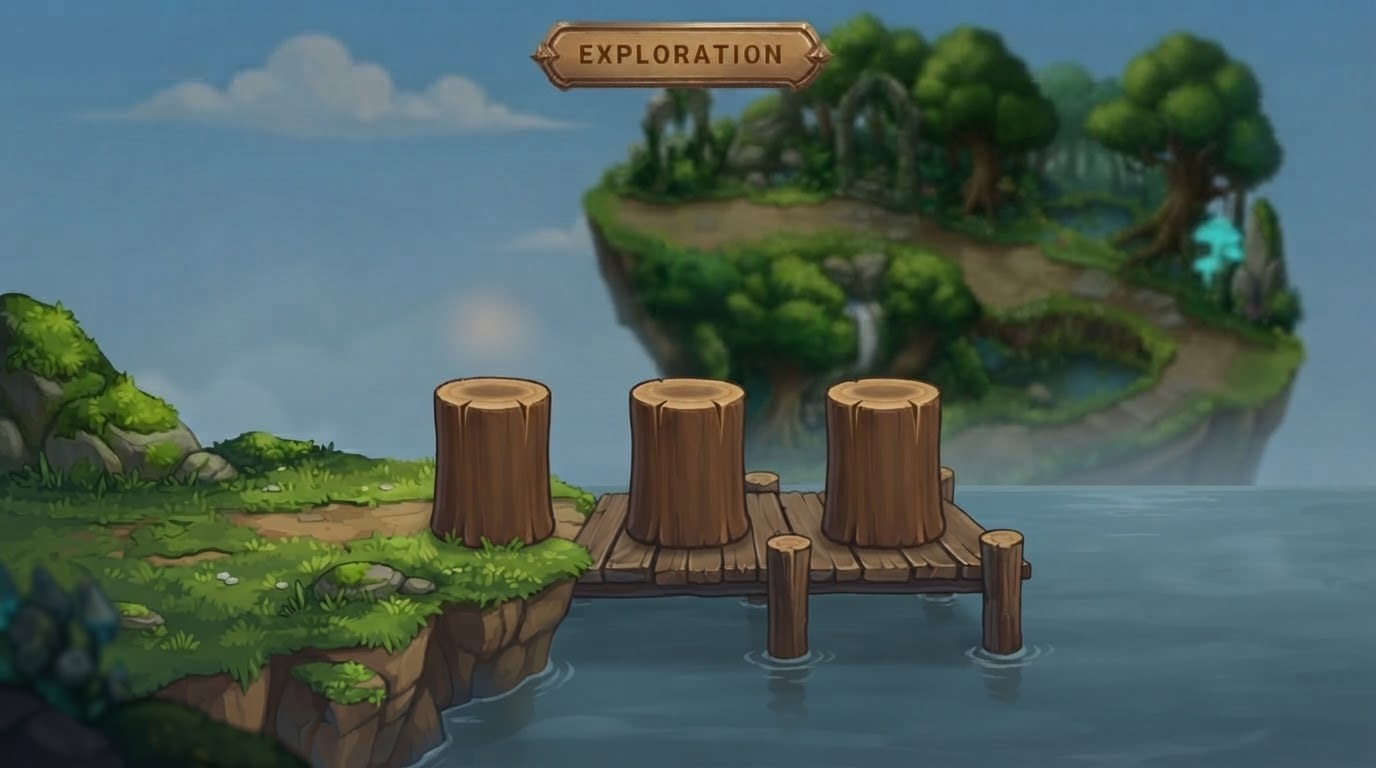
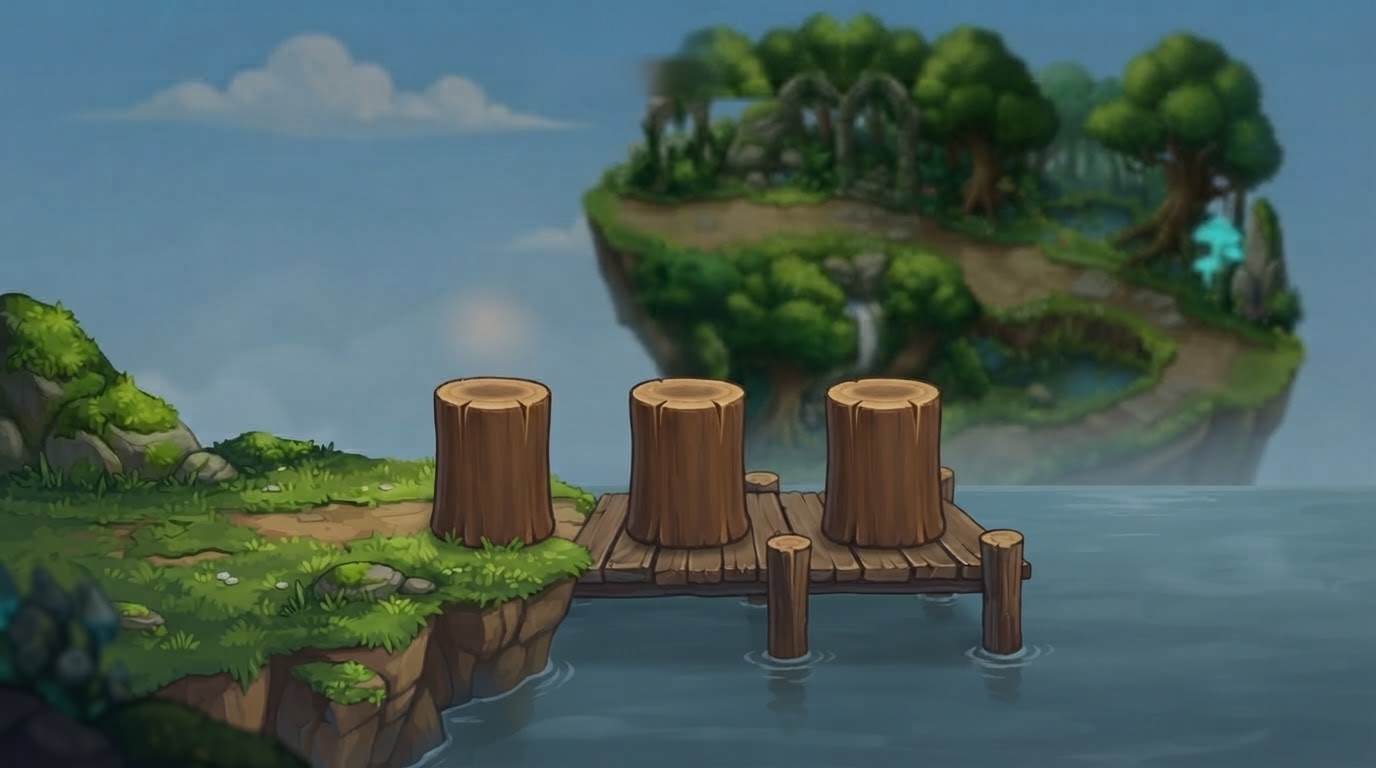
Exploration : plus de bandes sur les côtés (décor plein écran, interface accrochée aux bords) ; créatures et images du hub nettes (décodage en pleine résolution)
Retour de l'auteur. Bandeau incrusté effacé du décor (ciel reconstitué,
feuillage recopié). resizeMethod scale dans CreatureArt et sur les images du
hub : sur Android, l'image était décodée à la taille de son 1er cadre, avant la
rotation en paysage. Vérifié sur 3 formats d'écran. Repères de sabotage à jour.
Sonde de taps 20 / 20 ; 77 contrôles verts, 98 sabotages prouvés.

Changed region(s): [[0.375, 0.0, 0.625, 0.1562]]

diff --git a/mobile/src/screens/games/AdventureScreen.js b/mobile/src/screens/games/AdventureScreen.js
@@ -203,6 +203,9 @@ const GLOW_CYAN = require('../../../assets/icons/glow-cyan.png');
 // que sur la maquette (vérifié).
 const HUB_DECOR = require('../../../assets/exploration/ponton.jpg');
 const HUB_RAPPORT = 1376 / 768;
+// ⚠ Toutes les images du hub : resizeMethod="scale" (03/10, créatures pixelisées) —
+// sur Android, une image est sinon décodée à la taille de son 1er cadre, calculé
+// AVANT la rotation portrait → paysage, puis agrandie.
 const HUB_IMG = {
   titre: require('../../../assets/exploration/titre-exploration.png'),
   plus: require('../../../assets/exploration/plus-dore.png'),
@@ -244,9 +247,9 @@ function BoutonCombat({ rect, rectLueur, onPress }) {
   const taille = Math.max(9, Math.round(rect.height * 0.34));
   return (
     <>
-      <Animated.Image source={HUB_IMG.lueur} resizeMode="stretch" style={[rectLueur, { opacity: lueur, pointerEvents: 'none' }]} />
+      <Animated.Image source={HUB_IMG.lueur} resizeMethod="scale" resizeMode="stretch" style={[rectLueur, { opacity: lueur, pointerEvents: 'none' }]} />
       <TouchableOpacity onPress={onPress} activeOpacity={0.85} style={rect}>
-        <Image source={HUB_IMG.combat} resizeMode="stretch" style={{ width: '100%', height: '100%' }} />
+        <Image source={HUB_IMG.combat} resizeMethod="scale" resizeMode="stretch" style={{ width: '100%', height: '100%' }} />
         {ETINCELLES_COMBAT.map(([fx, fy, ph], k) => (
           <Animated.Text key={k} style={[styles.hubEtincelle, { left: fx * rect.width - taille / 2, top: fy * rect.height - taille / 2, fontSize: taille, opacity: eclat(ph), transform: [{ scale: eclat(ph) }] }]}>✦</Animated.Text>
         ))}
@@ -255,12 +258,19 @@ function BoutonCombat({ rect, rectLueur, onPress }) {
   );
 }
 
-// Rectangle de la scène 16:9 posée entière dans l'écran (w × h).
-function sceneExploration(taille) {
+// Cadres du hub (03/10, retour de l'auteur : « pas de bordures sur les côtés ») :
+// - fond : le décor COUVRE tout l'écran (rogné en haut/bas ou sur les côtés) ;
+//   pilotis, créatures, « + » et « Changer » y sont ATTACHÉS ;
+// - ui : l'interface garde les tailles de la maquette, ramenées à la HAUTEUR de
+//   l'écran (ou à sa largeur si l'écran est moins large que 16:9), et s'ACCROCHE
+//   aux bords : RETOUR à gauche, compteurs à droite, titre et COMBAT au centre.
+function cadresExploration(taille) {
   const w = (taille && taille.w) || 0; const h = (taille && taille.h) || 0;
-  if (!w || !h) return { x: 0, y: 0, l: 0, h: 0 };
-  if (w / h > HUB_RAPPORT) { const l = h * HUB_RAPPORT; return { x: (w - l) / 2, y: 0, l, h }; }
-  const hh = w / HUB_RAPPORT; return { x: 0, y: (h - hh) / 2, l: w, h: hh };
+  if (!w || !h) return null;
+  const k = Math.max(w / 1376, h / 768);
+  const fond = { l: 1376 * k, h: 768 * k }; fond.x = (w - fond.l) / 2; fond.y = (h - fond.h) / 2;
+  const uiL = Math.min(h * HUB_RAPPORT, w);
+  return { w, h, fond, ui: { l: uiL, h: uiL / HUB_RAPPORT } };
 }
 import * as ScreenOrientation from 'expo-screen-orientation';
 import AsyncStorage from '@react-native-async-storage/async-storage';
@@ -1133,45 +1143,53 @@ export default function AdventureScreen({ owned, deck, onBack, onEvolveCreature,
   }
 
   // ── Rendu du hub : voir HUB (fractions de la scène mesurées sur la maquette) ──
-  const scene = sceneExploration(bgSize);
-  const R = (f) => ({ position: 'absolute', left: scene.x + f[0] * scene.l, top: scene.y + f[1] * scene.h, width: (f[2] - f[0]) * scene.l, height: (f[3] - f[1]) * scene.h });
-  const police = (k) => Math.max(8, Math.round(scene.h * k));
+  const cadres = cadresExploration(bgSize);
+  const fond = cadres ? cadres.fond : { x: 0, y: 0, l: 0, h: 0 };
+  const ui = cadres ? cadres.ui : { l: 0, h: 0 };
+  const ecran = cadres || { w: 0, h: 0 };
+  // Interface : fractions de la maquette, accrochées à un bord (x : gauche/centre/droite ; y : haut/bas).
+  const R = (f, ax = 'centre', ay = 'haut') => {
+    const l = (f[2] - f[0]) * ui.l; const hh = (f[3] - f[1]) * ui.h;
+    const left = ax === 'gauche' ? f[0] * ui.l : ax === 'droite' ? ecran.w - (1 - f[0]) * ui.l : ecran.w / 2 + (f[0] - 0.5) * ui.l;
+    const top = ay === 'bas' ? ecran.h - (1 - f[1]) * ui.h : f[1] * ui.h;
+    return { position: 'absolute', left, top, width: l, height: hh };
+  };
+  // Décor : fractions de l'image (pilotis, créatures…), qui le suivent quand il est rogné.
+  const F = (f) => ({ position: 'absolute', left: fond.x + f[0] * fond.l, top: fond.y + f[1] * fond.h, width: (f[2] - f[0]) * fond.l, height: (f[3] - f[1]) * fond.h });
+  const police = (k) => Math.max(8, Math.round(ui.h * k));
   const couleurPuissance = puissanceMenu ? (puissanceMenu.couleur === 'vert' ? '#3DDC84' : puissanceMenu.couleur === 'orange' ? '#FFB74D' : '#FF6B6B') : '#eafbe8';
   return (
     <View style={styles.hubRacine} onLayout={(e) => setBgSize({ w: e.nativeEvent.layout.width, h: e.nativeEvent.layout.height })}>
-      {/* Le même décor, flouté, remplit l'écran autour de la scène 16:9. */}
-      {/* Largeur/hauteur EXPLICITES : une <Image> en absoluteFill seul se dessine à sa
-          taille D'ORIGINE sur téléphone (bug du 13/09 revenu le 03/10). */}
-      <Image source={HUB_DECOR} blurRadius={14} resizeMode="cover" style={styles.hubPleineImage} />
-      <View style={[StyleSheet.absoluteFill, { backgroundColor: 'rgba(5,12,18,0.35)' }]} />
-      {scene.l > 0 && (
+      {fond.l > 0 && (
         <>
-          <Image source={HUB_DECOR} resizeMode="stretch" style={R([0, 0, 1, 1])} />
+          {/* Le décor COUVRE l'écran (plus de bandes sur les côtés, demande de l'auteur) ;
+              largeur/hauteur explicites (auditImagesTailleExplicite). */}
+          <Image source={HUB_DECOR} resizeMethod="scale" resizeMode="stretch" style={F([0, 0, 1, 1])} />
 
           {/* ── En haut : RETOUR, titre, puissance (+ élixir), Griffes, Runes. */}
-          <TouchableOpacity onPress={onBack} activeOpacity={0.8} hitSlop={{ top: 8, bottom: 8, left: 8, right: 8 }} style={[R(HUB.retour), { justifyContent: 'center' }]}>
-            <Image source={HUB_IMG.retour} resizeMode="stretch" style={styles.hubPleineImage} />
-            <Text style={[styles.hubRetourTexte, { fontSize: police(0.02), marginLeft: (HUB.retour[2] - HUB.retour[0]) * scene.l * 0.2 }]} numberOfLines={1}>RETOUR</Text>
+          <TouchableOpacity onPress={onBack} activeOpacity={0.8} hitSlop={{ top: 8, bottom: 8, left: 8, right: 8 }} style={[R(HUB.retour, 'gauche'), { justifyContent: 'center' }]}>
+            <Image source={HUB_IMG.retour} resizeMethod="scale" resizeMode="stretch" style={styles.hubPleineImage} />
+            <Text style={[styles.hubRetourTexte, { fontSize: police(0.02), marginLeft: (HUB.retour[2] - HUB.retour[0]) * ui.l * 0.2 }]} numberOfLines={1}>RETOUR</Text>
           </TouchableOpacity>
-          <Image source={HUB_IMG.titre} resizeMode="stretch" style={R(HUB.titre)} />
-          <View style={[R(HUB.puissance), styles.hubPilule]}>
+          <Image source={HUB_IMG.titre} resizeMethod="scale" resizeMode="stretch" style={R(HUB.titre, 'centre')} />
+          <View style={[R(HUB.puissance, 'droite'), styles.hubPilule]}>
             <Text style={[styles.hubPiluleTexte, { fontSize: police(0.026), color: couleurPuissance }]} numberOfLines={1}>🛡 Puissance {puissanceMenu ? puissanceMenu.puissance : '…'}</Text>
           </View>
           {elixirCombats > 0 && (
-            <View style={[R(HUB.elixir), styles.hubPilule]}>
+            <View style={[R(HUB.elixir, 'droite'), styles.hubPilule]}>
               <Text style={[styles.hubPiluleTexte, { fontSize: police(0.028) }]} numberOfLines={1}>🧪 {elixirCombats}</Text>
             </View>
           )}
-          <View style={[R(HUB.griffes), styles.hubPilule, { justifyContent: 'space-between', paddingLeft: 4, paddingRight: 3 }]}>
-            <CurrencyIcon kind="griffes" size={Math.round(scene.h * 0.045)} haloed={false} />
+          <View style={[R(HUB.griffes, 'droite'), styles.hubPilule, { justifyContent: 'space-between', paddingLeft: 4, paddingRight: 3 }]}>
+            <CurrencyIcon kind="griffes" size={Math.round(ui.h * 0.045)} haloed={false} />
             <Text style={[styles.hubPiluleTexte, { fontSize: police(0.034), color: '#ffffff' }]} numberOfLines={1}>{griffes}</Text>
-            <TouchableOpacity onPress={buyGriffesWithDiamonds} hitSlop={{ top: 8, bottom: 8, left: 8, right: 8 }} style={[styles.hubPlus, { width: scene.h * 0.045, height: scene.h * 0.045 }]}>
+            <TouchableOpacity onPress={buyGriffesWithDiamonds} hitSlop={{ top: 8, bottom: 8, left: 8, right: 8 }} style={[styles.hubPlus, { width: ui.h * 0.045, height: ui.h * 0.045 }]}>
               <Text style={[styles.hubPlusTexte, { fontSize: police(0.034) }]}>+</Text>
             </TouchableOpacity>
           </View>
-          <TouchableOpacity onPress={() => setRunesOpen(true)} activeOpacity={0.8} style={[R(HUB.runes), { alignItems: 'center', justifyContent: 'center' }]}>
-            <Image source={GLOW_CYAN} resizeMode="contain" style={{ position: 'absolute', width: '190%', height: '190%' }} />
-            <Image source={RUNES_GEM} resizeMode="contain" style={{ width: '100%', height: '100%' }} />
+          <TouchableOpacity onPress={() => setRunesOpen(true)} activeOpacity={0.8} style={[R(HUB.runes, 'droite'), { alignItems: 'center', justifyContent: 'center' }]}>
+            <Image source={GLOW_CYAN} resizeMethod="scale" resizeMode="contain" style={{ position: 'absolute', width: '190%', height: '190%' }} />
+            <Image source={RUNES_GEM} resizeMethod="scale" resizeMode="contain" style={{ width: '100%', height: '100%' }} />
           </TouchableOpacity>
 
           {/* ── Les 3 pilotis : la créature du deck DEBOUT sur le dessus (pieds au
@@ -1181,10 +1199,10 @@ export default function AdventureScreen({ owned, deck, onBack, onEvolveCreature,
             const own = id ? ownedMap[id] : null;
             const stade = own ? stageForLevel(own.level) : 0;
             const display = creature && own ? creature.stages[stade] : null;
-            const cx = scene.x + HUB.pilotis[i] * scene.l;
-            const dessus = scene.y + HUB.dessus * scene.h;
-            const lp = HUB.pilotisL * scene.l;
-            const ch = HUB.creatureH * scene.h;
+            const cx = fond.x + HUB.pilotis[i] * fond.l;
+            const dessus = fond.y + HUB.dessus * fond.h;
+            const lp = HUB.pilotisL * fond.l;
+            const ch = HUB.creatureH * fond.h;
             const cad = display ? (CADRAGE_CREATURES[id] || {})[stade] : null;
             let art = null;
             if (display && cad) {
@@ -1198,30 +1216,30 @@ export default function AdventureScreen({ owned, deck, onBack, onEvolveCreature,
             } else if (display) {
               art = <Text style={{ position: 'absolute', left: cx - ch * 0.5, top: dessus - ch * 0.95, width: ch, textAlign: 'center', fontSize: Math.round(ch * 0.72), pointerEvents: 'none' }}>{display.emoji}</Text>;
             }
-            const pl = HUB.plus.l * scene.l; const ph = HUB.plus.h * scene.h; const py = scene.y + HUB.plus.cy * scene.h;
-            const cl = HUB.changer.l * scene.l;
+            const pl = HUB.plus.l * fond.l; const ph = HUB.plus.h * fond.h; const py = fond.y + HUB.plus.cy * fond.h;
+            const cl = HUB.changer.l * fond.l;
             return (
               <React.Fragment key={i}>
                 {art}
                 {!display && (
                   <>
-                    <Image source={HUB_IMG.lueur} resizeMode="stretch" style={{ position: 'absolute', left: cx - pl * 1.5, top: py - ph, width: pl * 3, height: ph * 2, opacity: 0.75, pointerEvents: 'none' }} />
-                    <Image source={HUB_IMG.plus} resizeMode="stretch" style={{ position: 'absolute', left: cx - pl / 2, top: py - ph / 2, width: pl, height: ph, pointerEvents: 'none' }} />
+                    <Image source={HUB_IMG.lueur} resizeMethod="scale" resizeMode="stretch" style={{ position: 'absolute', left: cx - pl * 1.5, top: py - ph, width: pl * 3, height: ph * 2, opacity: 0.75, pointerEvents: 'none' }} />
+                    <Image source={HUB_IMG.plus} resizeMethod="scale" resizeMode="stretch" style={{ position: 'absolute', left: cx - pl / 2, top: py - ph / 2, width: pl, height: ph, pointerEvents: 'none' }} />
                   </>
                 )}
                 {/* Zone tactile : la créature et son pilotis (fiche, ou sélecteur si vide). */}
                 <TouchableOpacity activeOpacity={0.85} onPress={() => (creature ? setDetailCreatureId(id) : setDeckPickerSlot(i))}
-                  style={{ position: 'absolute', left: cx - lp / 2, top: dessus - ch * 1.05, width: lp, height: ch * 1.05 + (HUB.changer.y0 - HUB.dessus) * scene.h }} />
+                  style={{ position: 'absolute', left: cx - lp / 2, top: dessus - ch * 1.05, width: lp, height: ch * 1.05 + (HUB.changer.y0 - HUB.dessus) * fond.h }} />
                 <TouchableOpacity activeOpacity={0.8} onPress={() => setDeckPickerSlot(i)}
-                  style={{ position: 'absolute', left: cx - cl / 2, top: scene.y + HUB.changer.y0 * scene.h, width: cl, height: (HUB.changer.y1 - HUB.changer.y0) * scene.h }}>
-                  <Image source={HUB_IMG.changer} resizeMode="stretch" style={{ width: '100%', height: '100%' }} />
+                  style={{ position: 'absolute', left: cx - cl / 2, top: fond.y + HUB.changer.y0 * fond.h, width: cl, height: (HUB.changer.y1 - HUB.changer.y0) * fond.h }}>
+                  <Image source={HUB_IMG.changer} resizeMethod="scale" resizeMode="stretch" style={{ width: '100%', height: '100%' }} />
                 </TouchableOpacity>
               </React.Fragment>
             );
           })}
 
           {/* ── COMBAT : il SCINTILLE un peu (lueur qui respire + étincelles), voir BoutonCombat. */}
-          <BoutonCombat rect={R(HUB.combat)} rectLueur={R([HUB.combat[0] - 0.045, HUB.combat[1] - 0.07, HUB.combat[2] + 0.045, HUB.combat[3] + 0.05])} onPress={() => setChapterMapOpen(true)} />
+          <BoutonCombat rect={R(HUB.combat, 'centre', 'bas')} rectLueur={R([HUB.combat[0] - 0.045, HUB.combat[1] - 0.07, HUB.combat[2] + 0.045, HUB.combat[3] + 0.05], 'centre', 'bas')} onPress={() => setChapterMapOpen(true)} />
         </>
       )}
 

diff --git a/mobile/tools/verifier-controles.js b/mobile/tools/verifier-controles.js
@@ -236,11 +236,11 @@ const SABOTAGES = [
   ['auditZoneTapLibre', F.ecran, "le calque des « +X » repasse en PROPRIÉTÉ pointerEvents (ignorée sur téléphone : taps bloqués)",
     remplace("              <View style={[StyleSheet.absoluteFill, { pointerEvents: 'none' }]}>", "              <View pointerEvents=\"none\" style={StyleSheet.absoluteFill}>")],
   ['auditImagesTailleExplicite', F.aventure, "panneau RETOUR remis en <Image style={StyleSheet.absoluteFill}> : exactement la plaque géante du 03/10",
-    remplace('<Image source={HUB_IMG.retour} resizeMode="stretch" style={styles.hubPleineImage} />', '<Image source={HUB_IMG.retour} resizeMode="stretch" style={StyleSheet.absoluteFill} />')],
+    remplace('<Image source={HUB_IMG.retour} resizeMethod="scale" resizeMode="stretch" style={styles.hubPleineImage} />', '<Image source={HUB_IMG.retour} resizeMethod="scale" resizeMode="stretch" style={StyleSheet.absoluteFill} />')],
   ['auditImagesTailleExplicite', F.aventure, "style nommé qui remplit son parent sans largeur/hauteur (4 bords à 0) : même plaque géante",
     remplace("  hubPleineImage: { position: 'absolute', left: 0, top: 0, width: '100%', height: '100%' },", "  hubPleineImage: { position: 'absolute', left: 0, top: 0, right: 0, bottom: 0 },")],
   ['auditHubExploration', F.aventure, "gemme des Runes débranchée dans le hub : les Runes deviendraient inaccessibles",
-    remplace('<TouchableOpacity onPress={() => setRunesOpen(true)} activeOpacity={0.8} style={[R(HUB.runes)', '<TouchableOpacity onPress={() => {}} activeOpacity={0.8} style={[R(HUB.runes)')],
+    remplace('<TouchableOpacity onPress={() => setRunesOpen(true)} activeOpacity={0.8} style={[R(HUB.runes, \'droite\')', '<TouchableOpacity onPress={() => {}} activeOpacity={0.8} style={[R(HUB.runes, \'droite\')')],
   ['auditAlbumComplet', F.album, "élément « Magie » retiré de la liste : ses créatures disparaîtraient de l'album sans bruit",
     remplace("'Lumière', 'Ténèbres', 'Magie'];", "'Lumière', 'Ténèbres'];")],
   ['auditRafaleArretee', F.grimoireEcran, "bouton de prix sans arrêt au relâcher : la rafale viderait les pièces",

diff --git a/mobile/src/components/CreatureArt.js b/mobile/src/components/CreatureArt.js
@@ -96,5 +96,9 @@ export default function CreatureArt({ creatureId, stageIndex = 0, emoji, size = 
   if (!src) {
     return <Text style={emojiStyle} numberOfLines={1}>{emoji}</Text>;
   }
-  return <Image source={src} style={[{ width: size, height: size }, style]} resizeMode="contain" />;
+  // resizeMethod « scale » (03/10, retour de l'auteur : créatures PIXELISÉES) : sur
+  // Android, une image est sinon décodée à la taille de son PREMIER cadre ; l'écran
+  // d'Exploration tourne (portrait → paysage) après ce premier cadre, la créature
+  // était décodée en petit puis agrandie. « scale » décode en pleine résolution.
+  return <Image source={src} style={[{ width: size, height: size }, style]} resizeMode="contain" resizeMethod="scale" />;
 }

diff --git a/mobile/CLICKER_ADVENTURE_STATE.md b/mobile/CLICKER_ADVENTURE_STATE.md
@@ -1806,3 +1806,26 @@ GARDE : **auditImagesTailleExplicite** (tout src/, commentaires retirés : Image
 Animated.Image en absoluteFill, aux 4 bords écrits à la main, ou par un style
 nommé qui remplit — sans `width`) + 2 sabotages. Corrigés : RETOUR et le fond
 flouté du hub (qui se posait aussi à sa taille d'origine, calé en haut à gauche).
+
+
+## 03/10 — Hub de l'Exploration : plein écran + créatures nettes (retour de l'auteur)
+
+1. « Bordures sur les côtés » = les bandes floutées (décor 16:9 posé entier sur
+   un écran 2,17:1). → Le décor COUVRE l'écran (`cadresExploration` : fond
+   « cover », rogné en haut/bas ou sur les côtés) ; pilotis, créatures, « + »,
+   « Changer » ATTACHÉS au décor (F) ; l'interface (R) garde les tailles de la
+   maquette ramenées à la HAUTEUR de l'écran (ou à sa largeur si < 16:9) et
+   s'ACCROCHE aux bords : RETOUR gauche, compteurs + Runes droite, titre haut
+   centre, COMBAT bas centre. Vérifié : 891×411 (téléphone de l'auteur),
+   731×411 (16:9), 1024×768 (tablette) — pas de bande, pas de chevauchement.
+   Le bandeau du titre INCRUSTÉ dans le décor dépassait une fois rogné → effacé
+   (ciel : reconstitution OpenCV Telea ; feuillage : copie MIROIR du feuillage
+   voisin, fondu 90 px ; raccord bas 8 px).
+2. « Créatures pixelisées » : sur Android, une image (fichier local, ex. mise à
+   jour EAS) est décodée à la taille de son 1er CADRE ; l'Exploration se dessine
+   d'abord en PORTRAIT puis tourne → décodée en petit, puis agrandie. →
+   `resizeMethod="scale"` (pleine résolution) dans CreatureArt (toutes les
+   créatures du jeu) et sur les 10 images du hub. Le banc (navigateur) ne le
+   montre pas.
+⚠ Repères de sabotage mis à jour (ligne des Runes, ligne de l'image RETOUR) :
+toute ligne visée par un sabotage qui change → repère à jour AVANT les suites.
